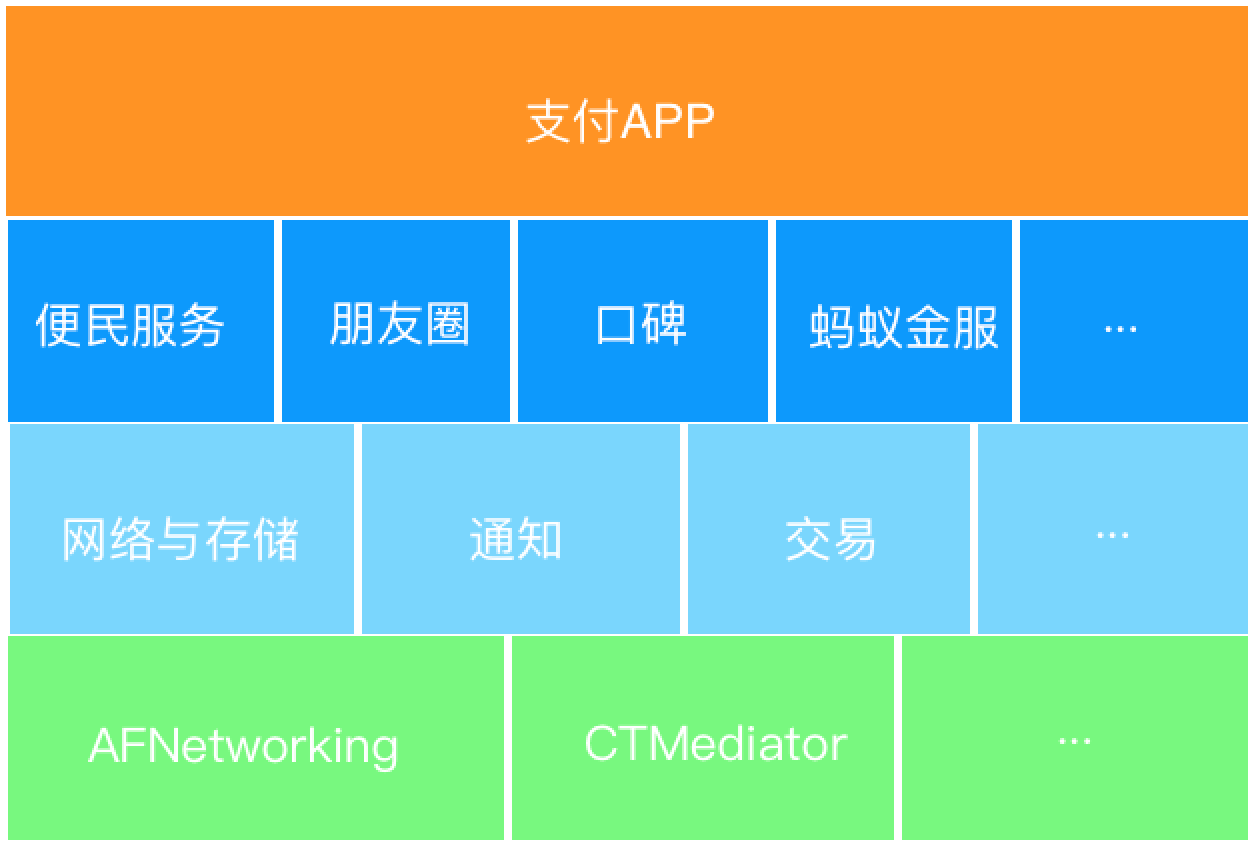
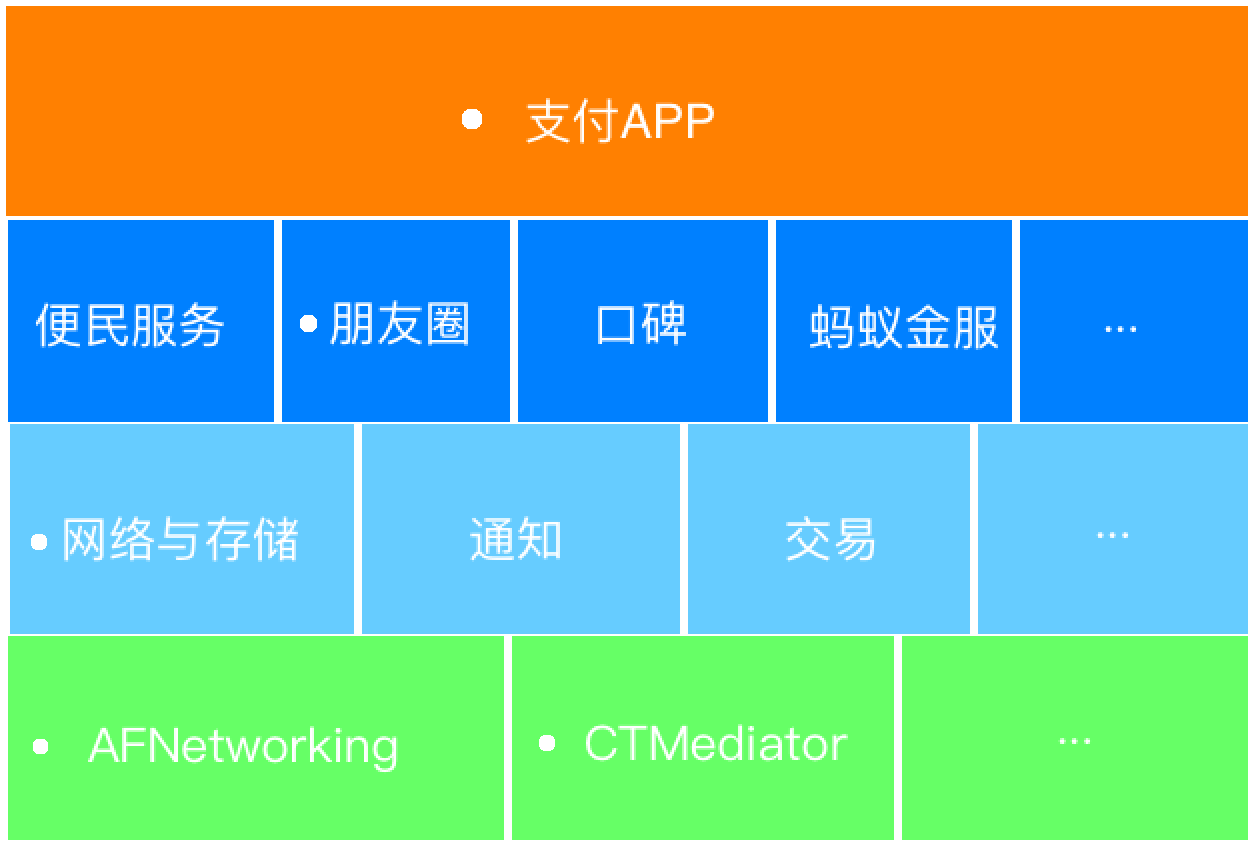
modified construction image

diff --git a/iOS/Modulization.md b/iOS/Modulization.md
@@ -8,6 +8,8 @@
 
 ### 2. 本文模块化结构示意图
 
+示意图中白点标识的模块会在本文中引用或者创建，进行结构演示。
+
 ![construction](../resources/images/modulization/construction.png)
 
 
